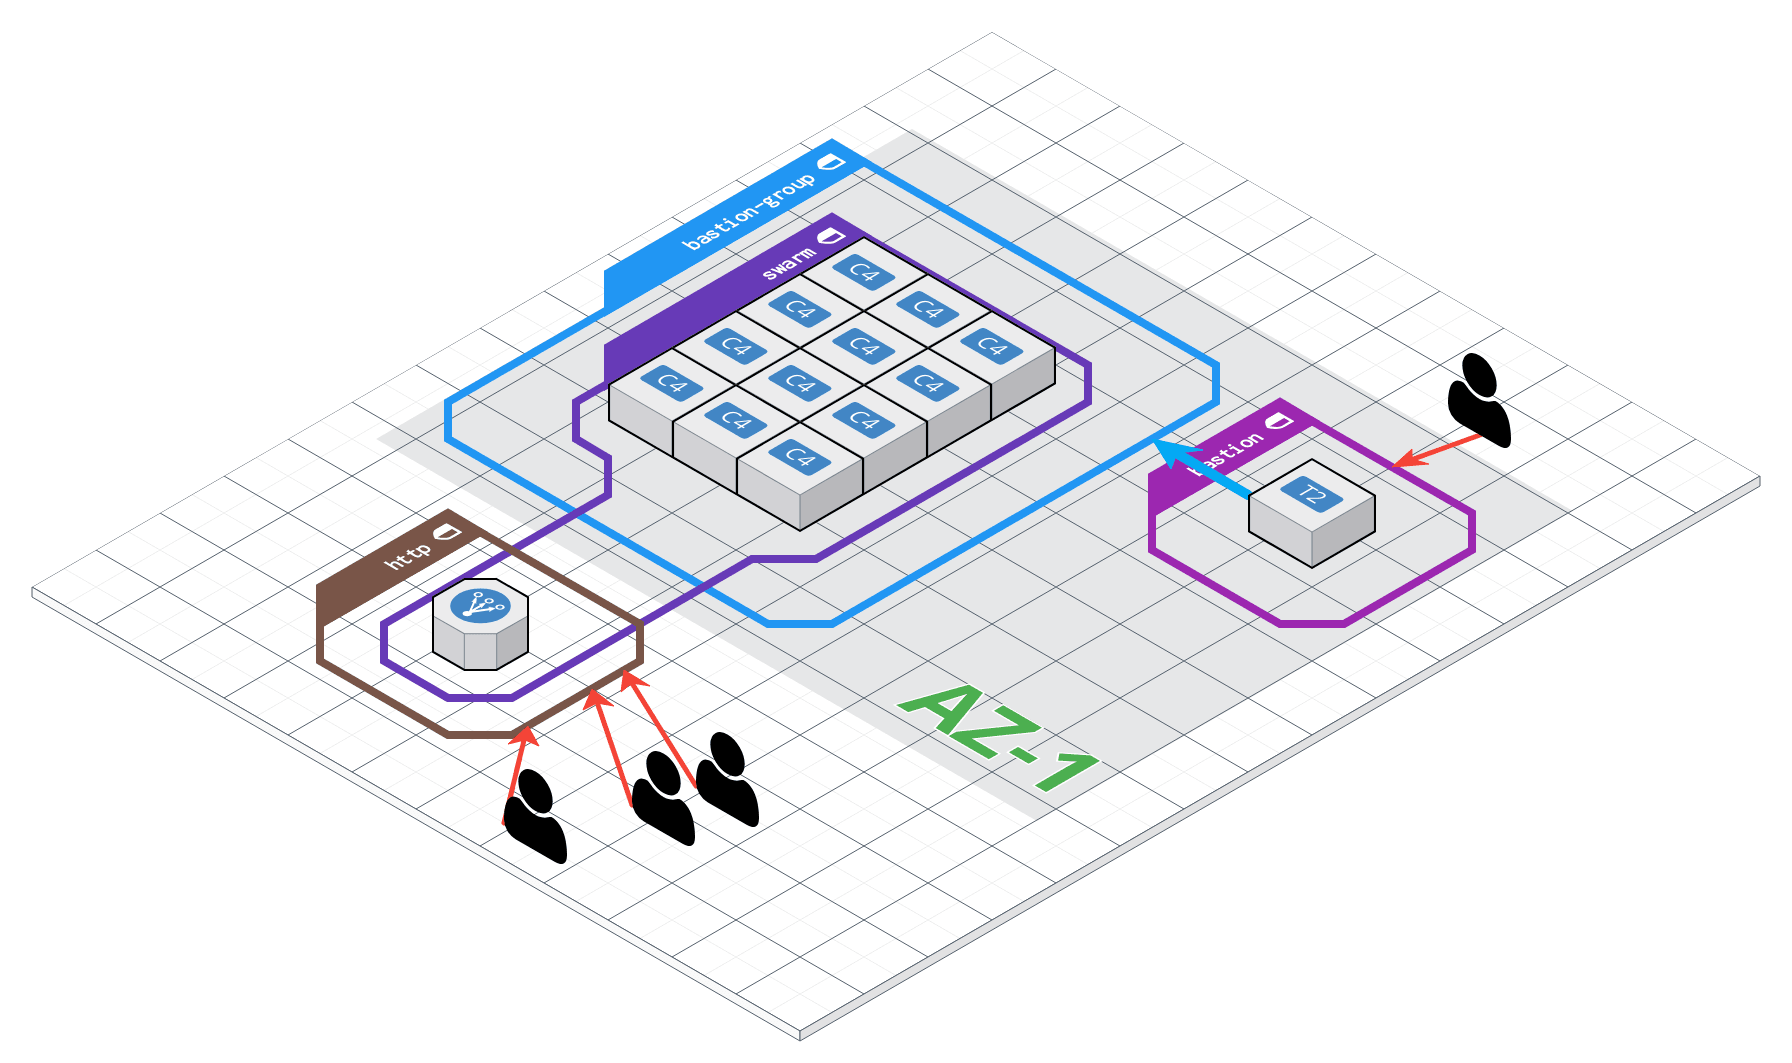
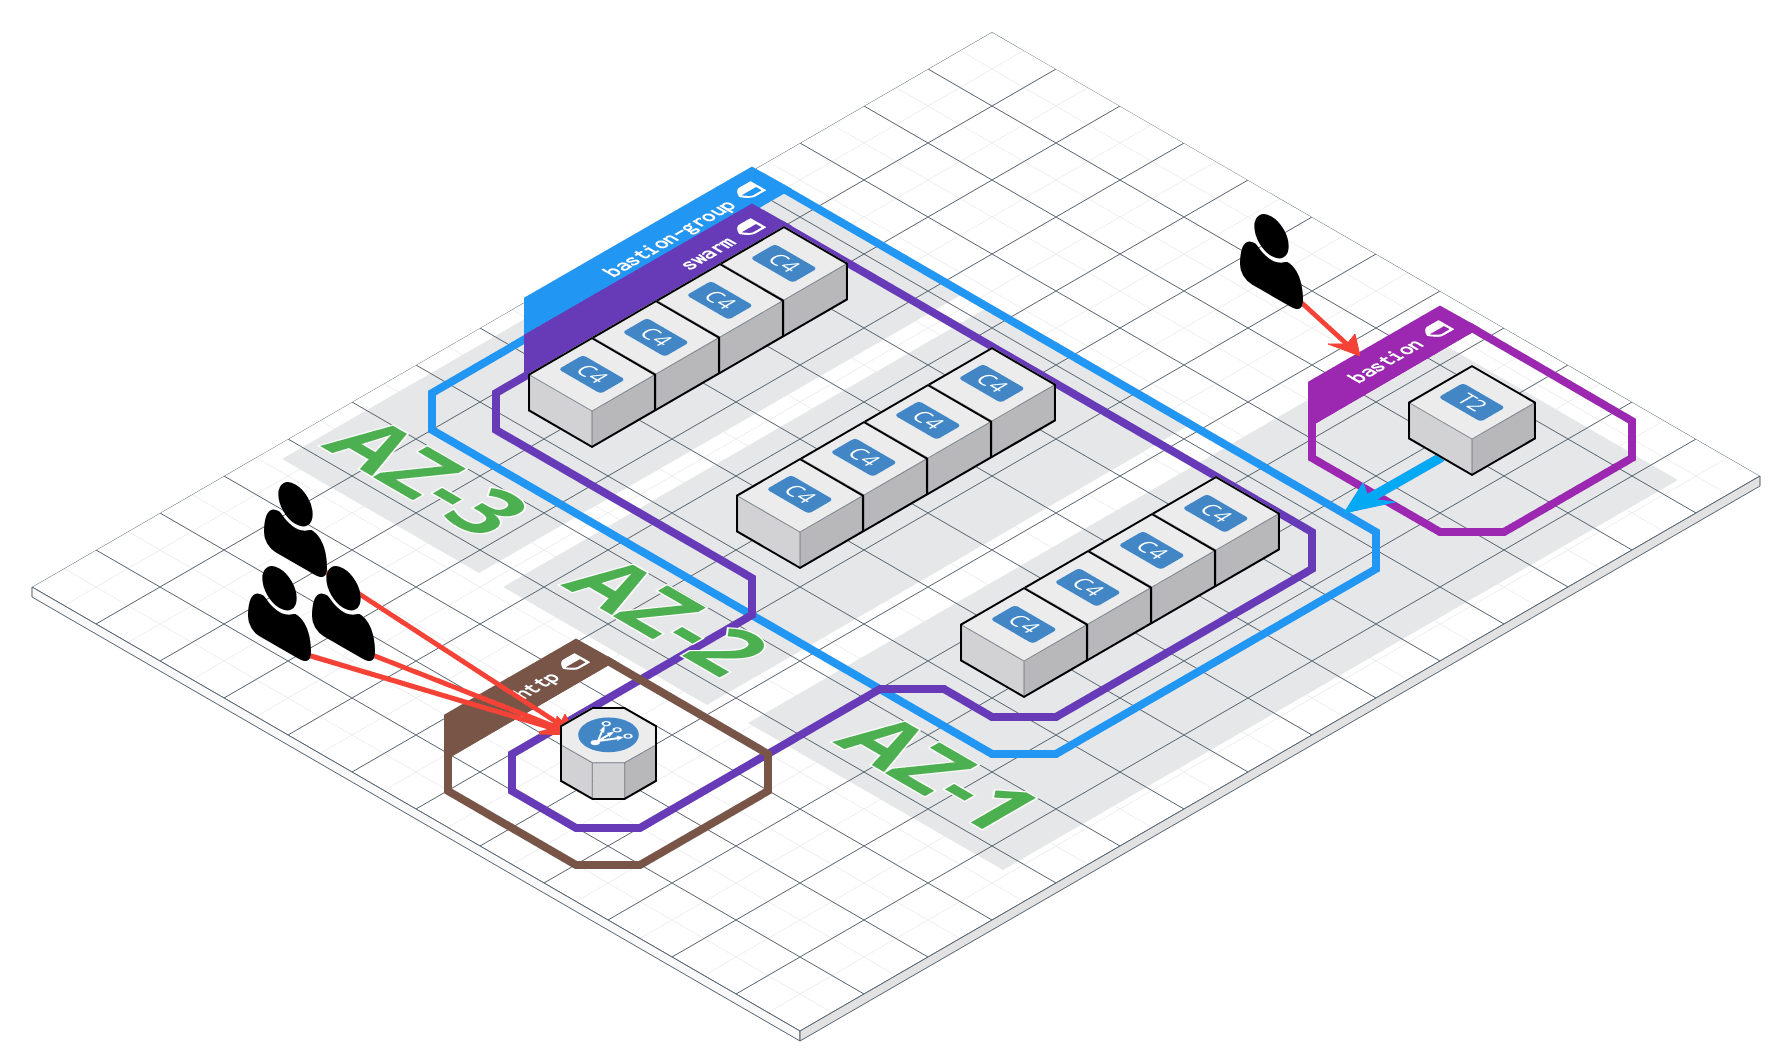
update image for multiple az

Changed region(s): [[0.125, 0.1242, 0.9375, 0.8382]]

diff --git a/README.md b/README.md
@@ -110,4 +110,4 @@ $ make ssh-node addr=one_of_private_node_address_in_swarm
 * [x] vpc
 * [ ] asg
 * [ ] nat
-* [ ] multiple az
+* [x] multiple az
